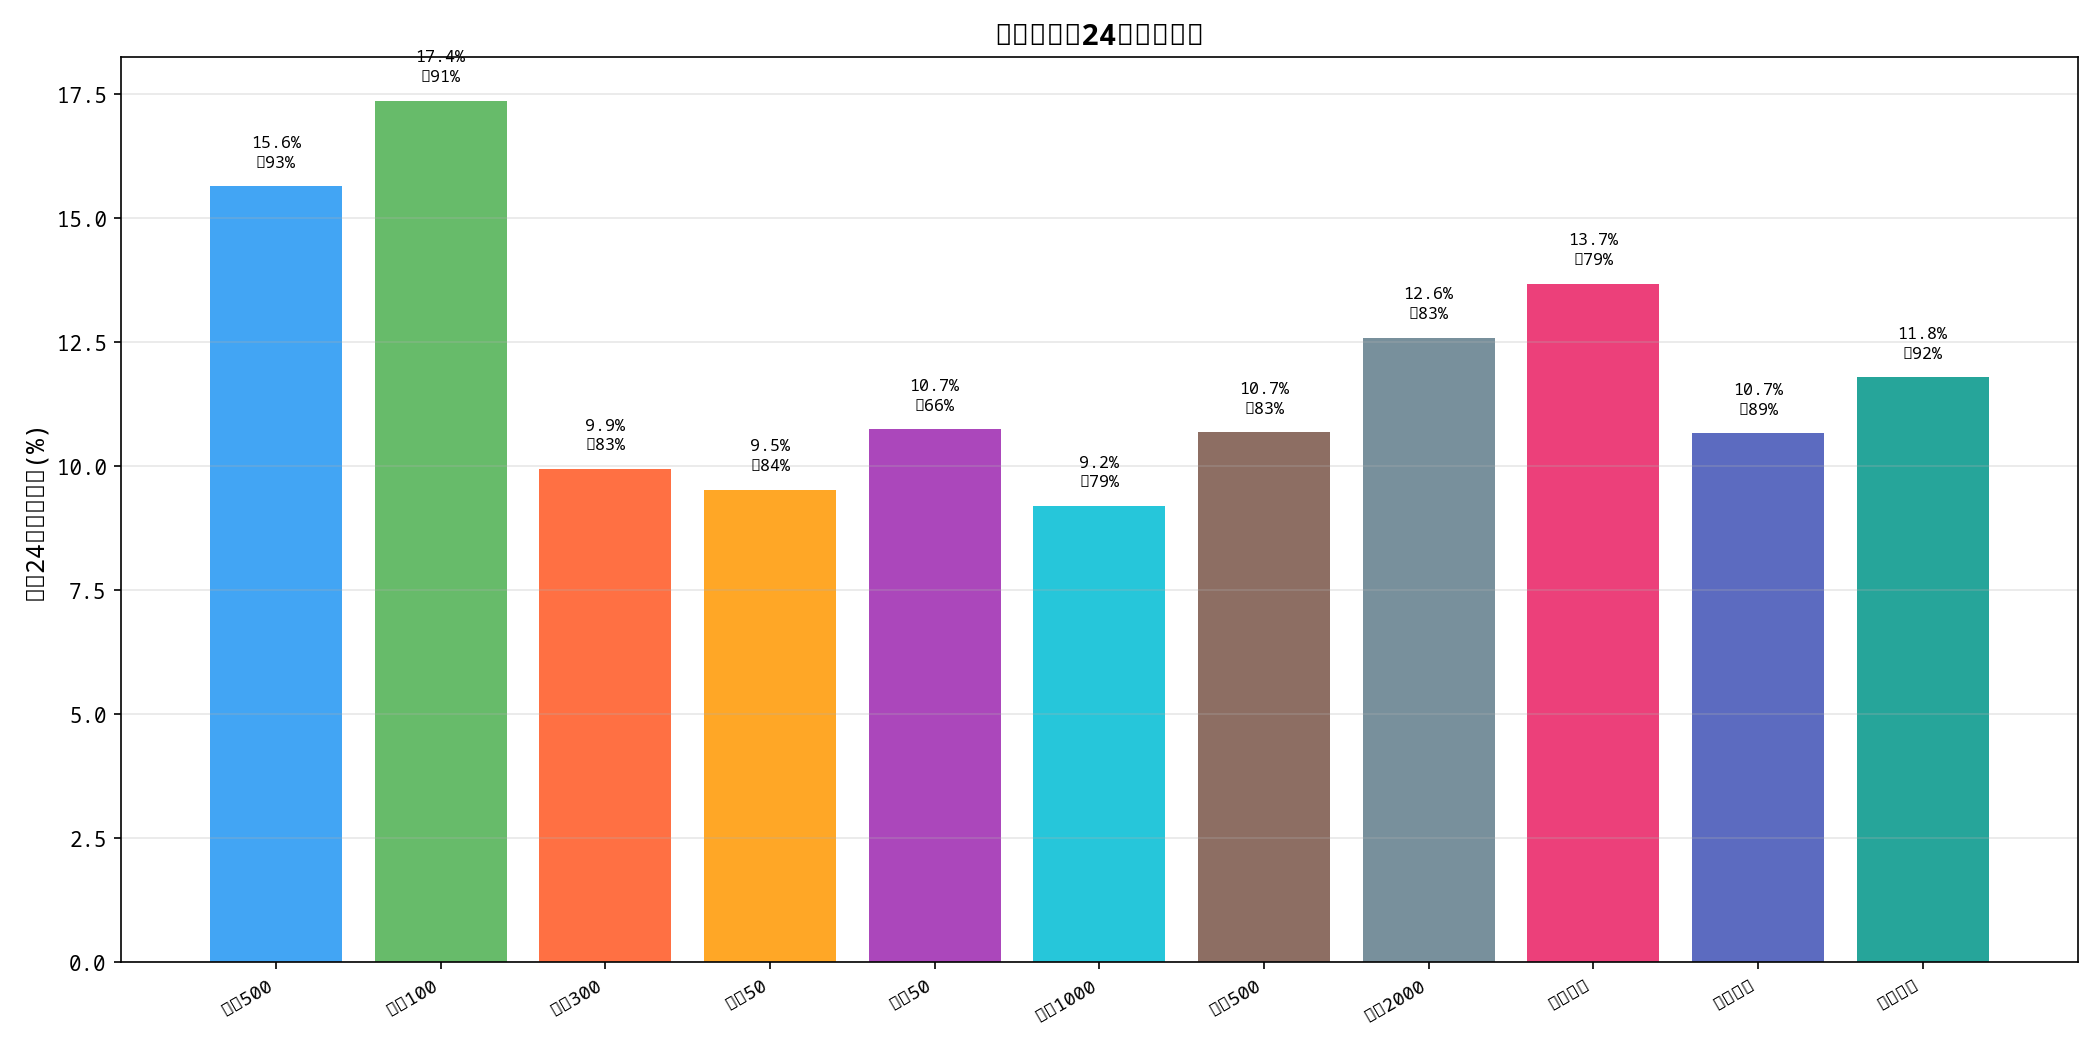
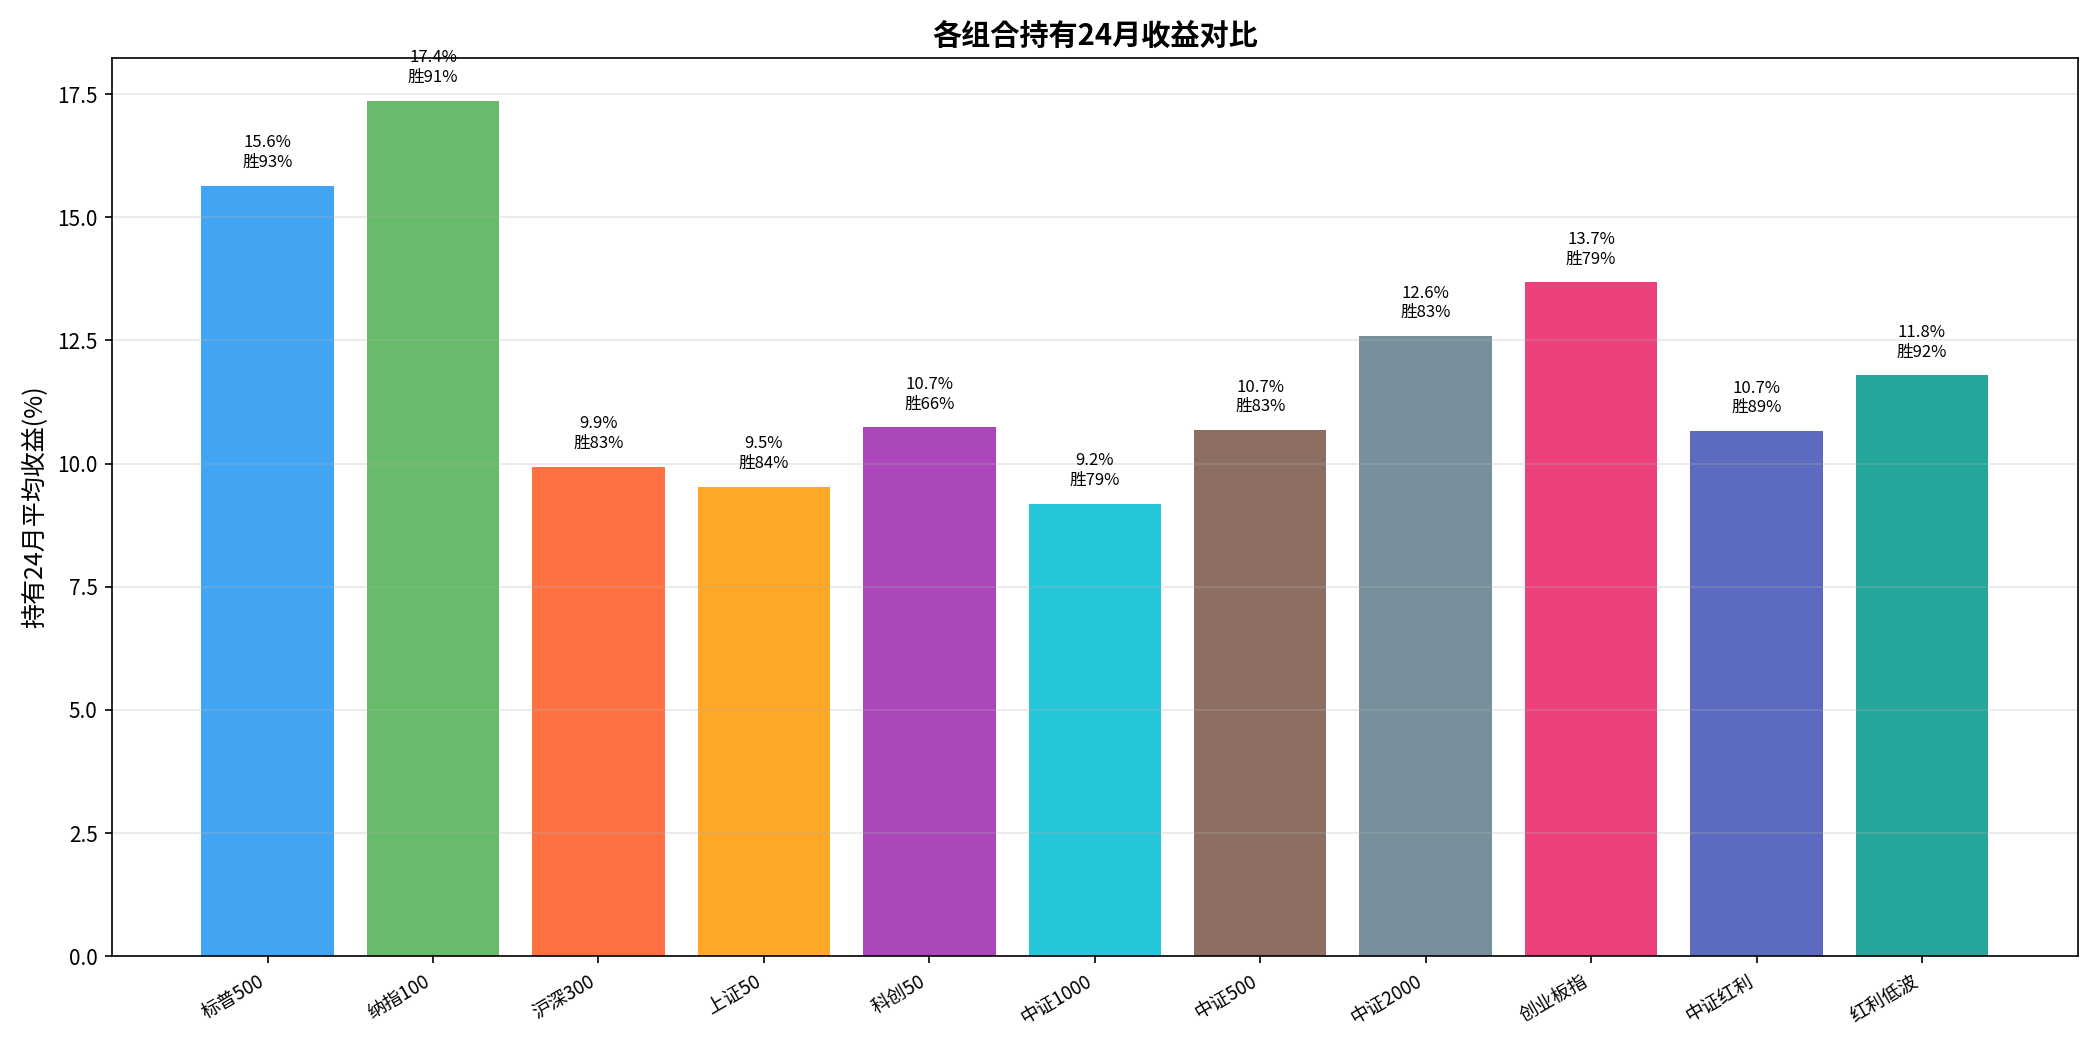
fix: chart font - use Noto Sans CJK for proper Chinese rendering

diff --git a/scripts/gen_charts_phase2.py b/scripts/gen_charts_phase2.py
@@ -10,10 +10,16 @@ RES2 = os.path.join(BASE, 'results2')
 CHARTS2 = os.path.join(BASE, 'charts2')
 os.makedirs(CHARTS2, exist_ok=True)
 
-zh_fonts = [f for f in font_manager.findSystemFonts() if any(n in f.lower() for n in ['noto','wqy','simsun','simhei','source','droid','cjk'])]
+zh_fonts = [f for f in font_manager.findSystemFonts() if any(n in f.lower() for n in ['notosanscjk','notoserifcjk','droid','wenquan','wqy'])]
 if zh_fonts:
-    prop = font_manager.FontProperties(fname=zh_fonts[0])
+    preferred = [f for f in zh_fonts if 'notosanscjk' in f.lower() and 'regular' in f.lower()]
+    if not preferred:
+        preferred = [f for f in zh_fonts if 'droid' in f.lower()]
+    if not preferred:
+        preferred = zh_fonts
+    prop = font_manager.FontProperties(fname=preferred[0])
     plt.rcParams['font.family'] = prop.get_name()
+    print(f"Using font: {preferred[0]} -> {prop.get_name()}")
 plt.rcParams['axes.unicode_minus'] = False
 
 groups = ['sp500','nasdaq','china','china_000016_SH','china_000688_SH','china_000852_SH',

diff --git a/scripts/gen_charts_11.py b/scripts/gen_charts_11.py
@@ -10,9 +10,14 @@ RES = os.path.join(BASE, 'results')
 CHARTS = os.path.join(BASE, 'charts')
 os.makedirs(CHARTS, exist_ok=True)
 
-zh_fonts = [f for f in font_manager.findSystemFonts() if any(n in f.lower() for n in ['noto','wqy','simsun','simhei','source','droid','cjk'])]
+zh_fonts = [f for f in font_manager.findSystemFonts() if any(n in f.lower() for n in ['notosanscjk','notoserifcjk','droid','wenquan','wqy'])]
 if zh_fonts:
-    prop = font_manager.FontProperties(fname=zh_fonts[0])
+    preferred = [f for f in zh_fonts if 'notosanscjk' in f.lower() and 'regular' in f.lower()]
+    if not preferred:
+        preferred = [f for f in zh_fonts if 'droid' in f.lower()]
+    if not preferred:
+        preferred = zh_fonts
+    prop = font_manager.FontProperties(fname=preferred[0])
     plt.rcParams['font.family'] = prop.get_name()
 plt.rcParams['axes.unicode_minus'] = False
 

diff --git a/reports/持有期分析报告.md b/reports/持有期分析报告.md
@@ -19,13 +19,13 @@
 
 ### 2.2 持有期设置
 
-| 持有期 | 交易日 | 对应自然时间 |
-|--------|--------|------------|
-| 1月 | 21天 | 约1个日历月 |
-| 3月 | 63天 | 约1个季度 |
-| 6月 | 126天 | 约半年 |
-| 12月 | 252天 | 约1年 |
-| 24月 | 504天 | 约2年 |
+| 持有期 | 交易日  | 对应自然时间 |
+| --- | ---- | ------ |
+| 1月  | 21天  | 约1个日历月 |
+| 3月  | 63天  | 约1个季度  |
+| 6月  | 126天 | 约半年    |
+| 12月 | 252天 | 约1年    |
+| 24月 | 504天 | 约2年    |
 
 ### 2.3 计算方法
 
@@ -39,37 +39,37 @@
 
 ![胜率热力图](../charts2/win_rate_heatmap.png)
 
-| 组别 | 1月 | 3月 | 6月 | 12月 | 24月 |
-|------|-----|-----|-----|------|------|
-| 标普500 | 64.0% | 73.1% | 79.1% | 85.6% | 92.9% |
-| 纳指100 | 63.1% | 72.5% | 76.9% | 81.9% | 90.8% |
-| 沪深300 | 56.7% | 60.8% | 63.0% | 68.9% | 82.8% |
-| 上证50 | 56.0% | 62.6% | 63.9% | 68.3% | 83.8% |
-| 科创50 | 49.7% | 44.7% | 54.7% | 52.9% | 65.5% |
+| 组别     | 1月    | 3月    | 6月    | 12月   | 24月   |
+| ------ | ----- | ----- | ----- | ----- | ----- |
+| 标普500  | 64.0% | 73.1% | 79.1% | 85.6% | 92.9% |
+| 纳指100  | 63.1% | 72.5% | 76.9% | 81.9% | 90.8% |
+| 沪深300  | 56.7% | 60.8% | 63.0% | 68.9% | 82.8% |
+| 上证50   | 56.0% | 62.6% | 63.9% | 68.3% | 83.8% |
+| 科创50   | 49.7% | 44.7% | 54.7% | 52.9% | 65.5% |
 | 中证1000 | 54.7% | 55.8% | 60.1% | 72.6% | 79.4% |
-| 中证500 | 57.4% | 59.3% | 65.6% | 74.3% | 83.0% |
+| 中证500  | 57.4% | 59.3% | 65.6% | 74.3% | 83.0% |
 | 中证2000 | 59.0% | 61.2% | 65.0% | 74.8% | 82.8% |
-| 创业板指 | 52.5% | 57.3% | 63.5% | 66.6% | 79.0% |
-| 中证红利 | 60.3% | 66.2% | 71.7% | 78.7% | 88.6% |
-| 红利低波 | 61.2% | 69.8% | 75.0% | 79.4% | 91.7% |
+| 创业板指   | 52.5% | 57.3% | 63.5% | 66.6% | 79.0% |
+| 中证红利   | 60.3% | 66.2% | 71.7% | 78.7% | 88.6% |
+| 红利低波   | 61.2% | 69.8% | 75.0% | 79.4% | 91.7% |
 
 ### 3.2 收益矩阵
 
 ![持有期vs收益曲线](../charts2/return_vs_holding.png)
 
-| 组别 | 1月 | 3月 | 6月 | 12月 | 24月 |
-|------|-----|-----|-----|------|------|
-| 标普500 | +0.59% | +1.78% | +3.61% | +7.34% | +15.64% |
-| 纳指100 | +0.64% | +1.91% | +3.95% | +8.09% | +17.37% |
-| 沪深300 | +0.42% | +1.19% | +2.30% | +4.48% | +9.94% |
-| 上证50 | +0.40% | +1.16% | +2.21% | +4.26% | +9.53% |
-| 科创50 | +0.23% | +0.53% | +0.81% | +2.33% | +10.74% |
-| 中证1000 | +0.39% | +1.12% | +1.97% | +3.74% | +9.19% |
-| 中证500 | +0.48% | +1.34% | +2.53% | +5.02% | +10.68% |
+| 组别     | 1月     | 3月     | 6月     | 12月    | 24月     |
+| ------ | ------ | ------ | ------ | ------ | ------- |
+| 标普500  | +0.59% | +1.78% | +3.61% | +7.34% | +15.64% |
+| 纳指100  | +0.64% | +1.91% | +3.95% | +8.09% | +17.37% |
+| 沪深300  | +0.42% | +1.19% | +2.30% | +4.48% | +9.94%  |
+| 上证50   | +0.40% | +1.16% | +2.21% | +4.26% | +9.53%  |
+| 科创50   | +0.23% | +0.53% | +0.81% | +2.33% | +10.74% |
+| 中证1000 | +0.39% | +1.12% | +1.97% | +3.74% | +9.19%  |
+| 中证500  | +0.48% | +1.34% | +2.53% | +5.02% | +10.68% |
 | 中证2000 | +0.53% | +1.57% | +3.00% | +6.08% | +12.59% |
-| 创业板指 | +0.44% | +1.32% | +2.55% | +5.61% | +13.68% |
-| 中证红利 | +0.49% | +1.38% | +2.67% | +5.08% | +10.66% |
-| 红利低波 | +0.53% | +1.51% | +2.92% | +5.66% | +11.79% |
+| 创业板指   | +0.44% | +1.32% | +2.55% | +5.61% | +13.68% |
+| 中证红利   | +0.49% | +1.38% | +2.67% | +5.08% | +10.66% |
+| 红利低波   | +0.53% | +1.51% | +2.92% | +5.66% | +11.79% |
 
 ---
 
